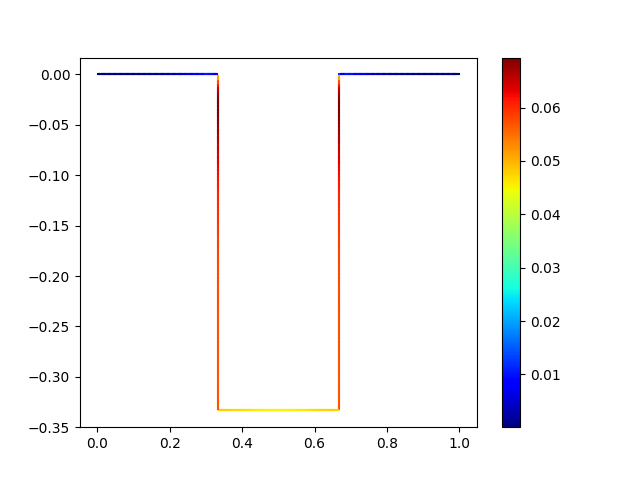
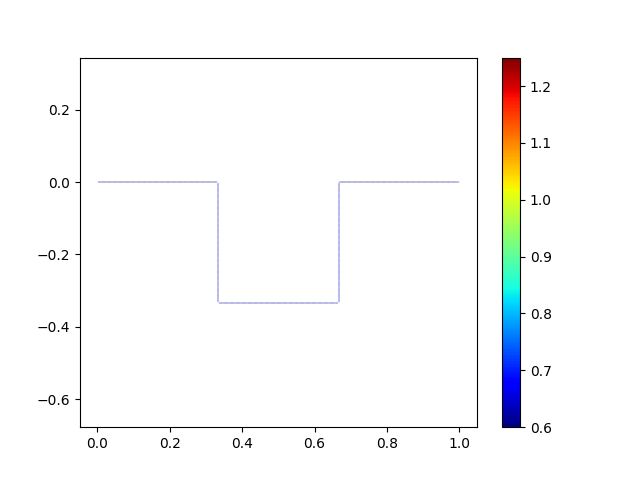
update

diff --git a/Ex3_square_harmonic_adaptive/harmonic_problem.py b/Ex3_square_harmonic_adaptive/harmonic_problem.py
@@ -138,17 +138,19 @@ im=plot_colourline(pt_xlist,pt_ylist,alpha_list,indx_list)
 fig.colorbar(im)
 plt.xlim(0,1)
 plt.axis('equal')
-plt.savefig(f"figures/alpha_n{n}_N{N}.pdf")
+plt.savefig(f"figures/alpha_n{n}_N{N}.png")
 plt.close()
-PETSc.Sys.Print(f"plot of alpha with color is saved in figures/alpha_n{n}_N{N}.pdf")
+PETSc.Sys.Print(f"plot of alpha with color is saved in figures/alpha_n{n}_N{N}.png")
 
 fig=plt.figure()
 indx_list=sort_index(line_list,pt_xlist,pt_ylist) # this function is in geogen.py
 im=plot_colourline(pt_xlist,pt_ylist,std_list,indx_list)
 fig.colorbar(im)
-plt.savefig(f"figures/alpha_std_n{n}_N{N}.pdf")
+plt.xlim(0,1)
+plt.axis('equal')
+plt.savefig(f"figures/alpha_std_n{n}_N{N}.png")
 plt.close()
-PETSc.Sys.Print(f"plot of std of alpha with color is saved in figures/alpha_std_cm_n{n}_N{N}.pdf")
+PETSc.Sys.Print(f"plot of std of alpha with color is saved in figures/alpha_std_cm_n{n}_N{N}.png")
 
 
 

diff --git a/Ex3_square_harmonic_adaptive/Ex3_solver.py b/Ex3_square_harmonic_adaptive/Ex3_solver.py
@@ -95,11 +95,12 @@ def harmonic_get_solution(mesh0,tolerance,max_iterations,deg):
 
 
 def plot_colourline(x,y,c,indx_list):
-    col = cm.jet((c-np.min(c))/(np.max(c)-np.min(c)))
+    #col = cm.jet((c-np.min(c))/(np.max(c)-np.min(c)))
+    col = cm.jet(c)
     ax = plt.gca()
     for idx in indx_list:
         for i in np.arange(len(idx)-1):
            ax.plot([x[idx[i]],x[idx[i+1]]], [y[idx[i]],y[idx[i+1]]], c=col[idx[i]],linewidth=0.3)
-    im = ax.scatter(x, y, c=c, s=0, cmap=cm.jet)
+    im = ax.scatter(x, y, c=c, s=0, cmap=cm.jet,vmin=0.6, vmax=1.25)
     return im
 
